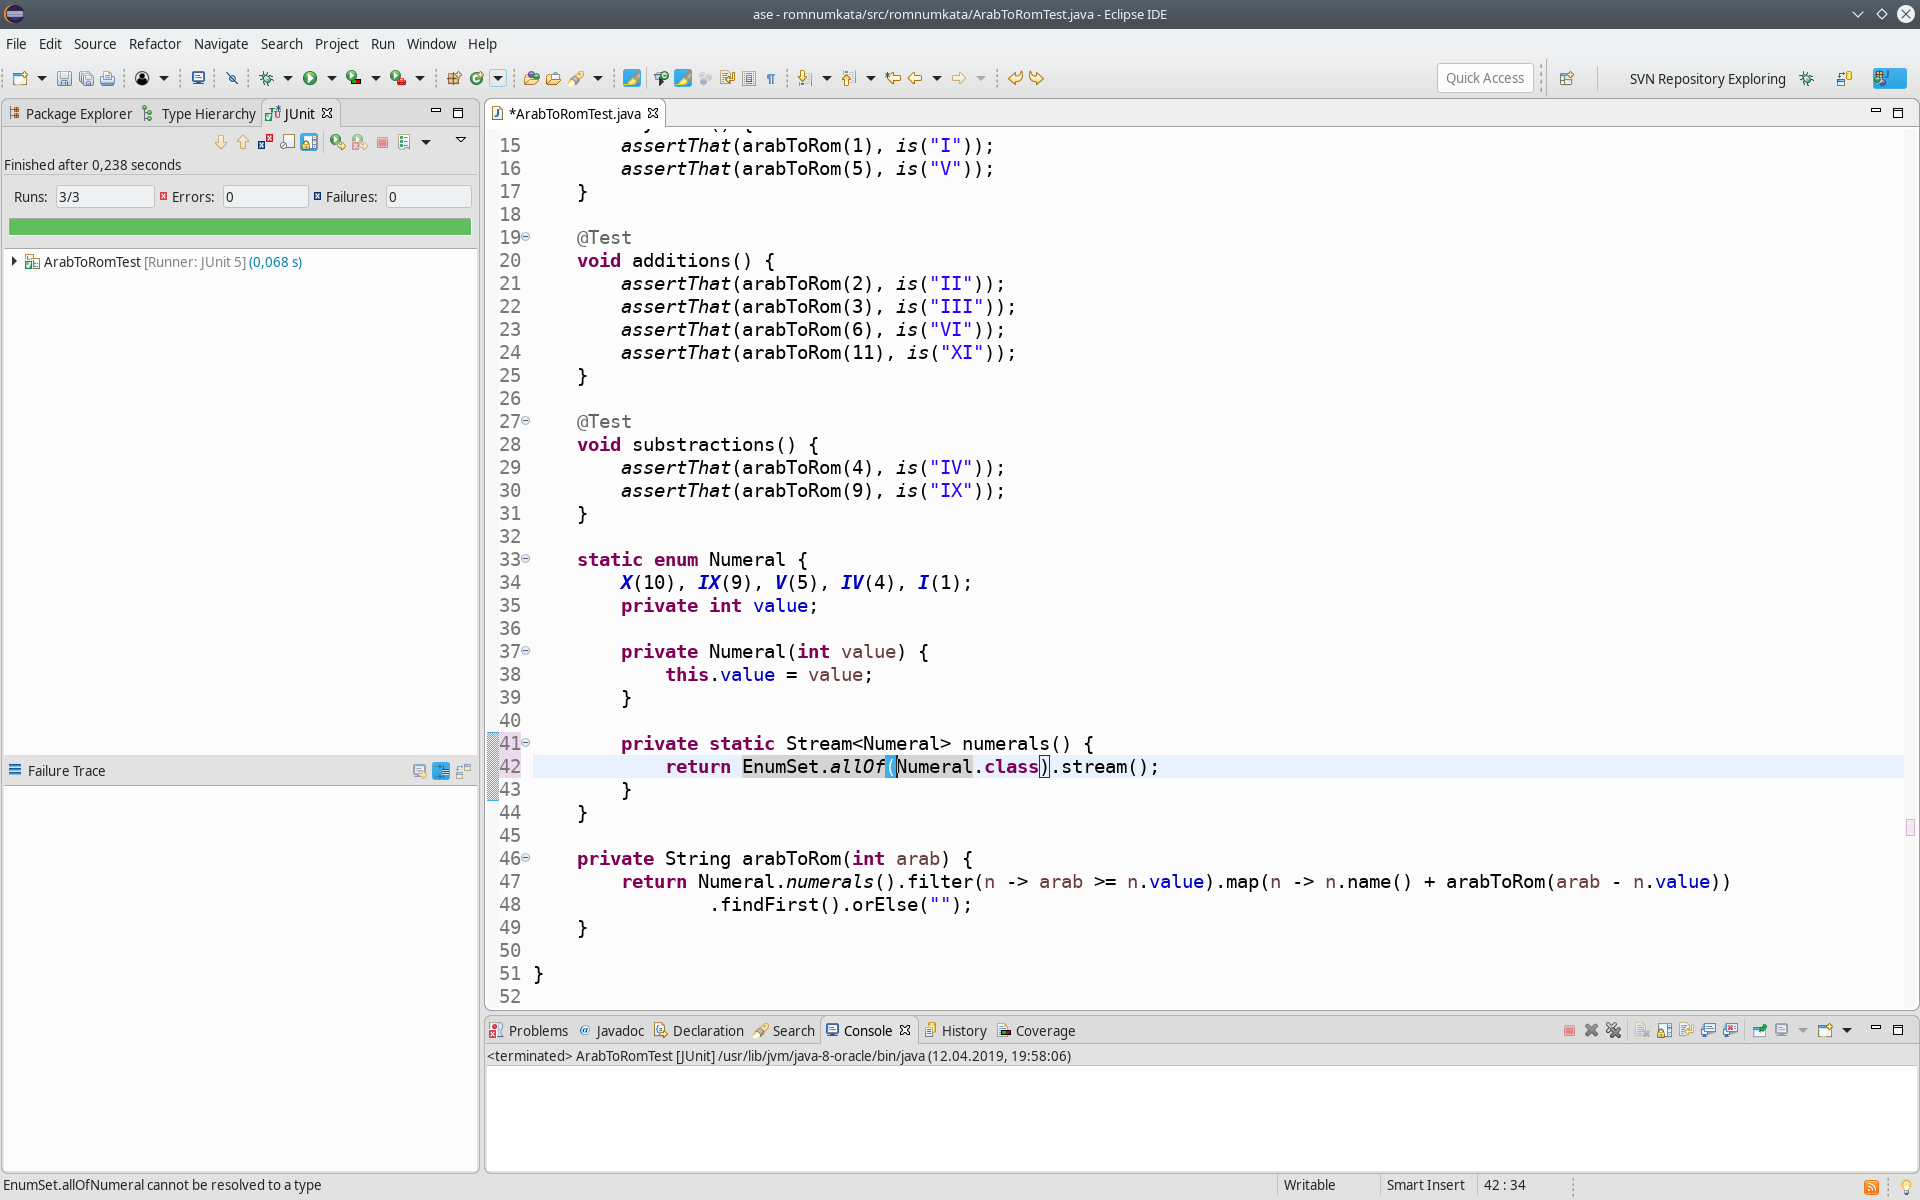
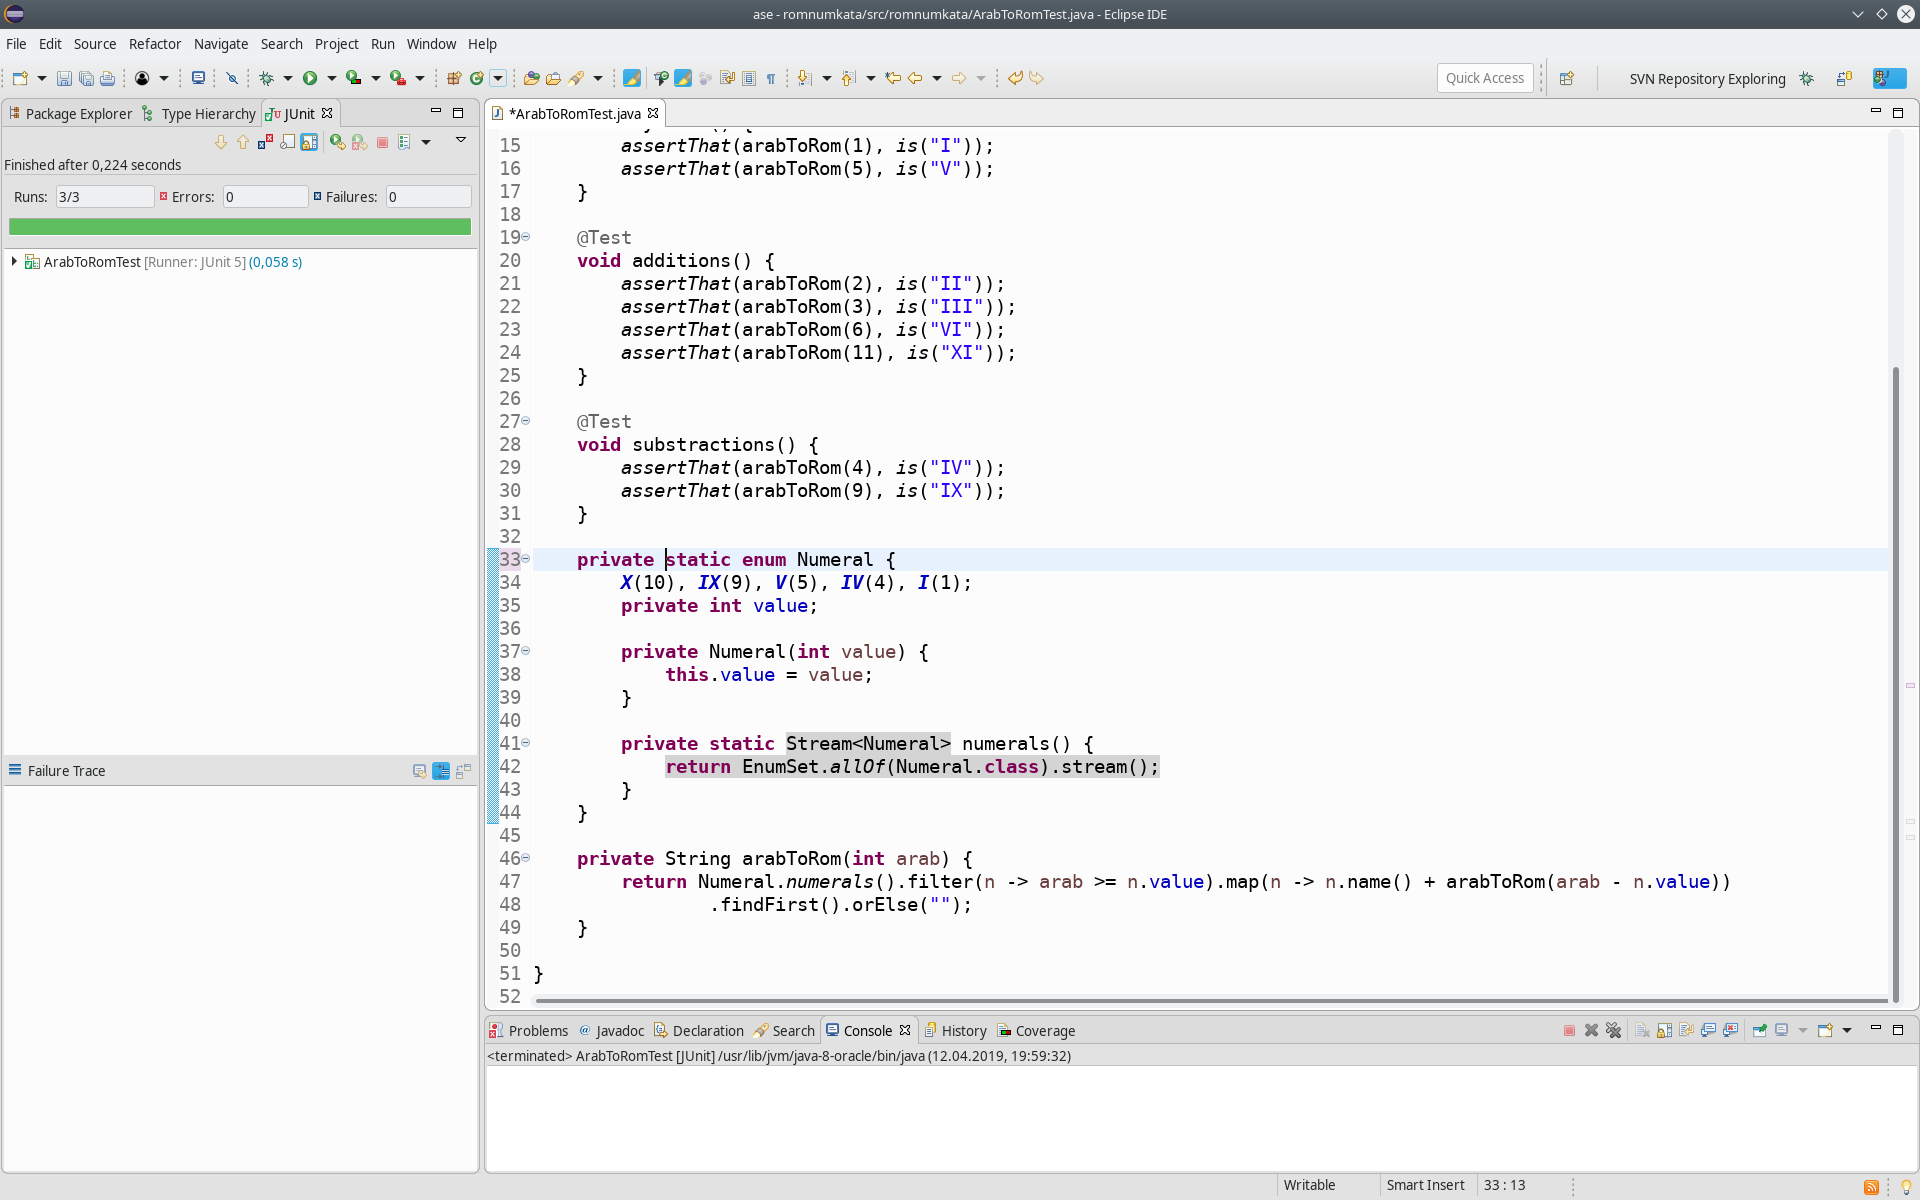
autocommit on change

diff --git a/src/romnumkata/ArabToRomTest.java b/src/romnumkata/ArabToRomTest.java
@@ -30,7 +30,7 @@ public class ArabToRomTest {
 		assertThat(arabToRom(9), is("IX"));
 	}
 
-	static enum Numeral {
+	private static enum Numeral {
 		X(10), IX(9), V(5), IV(4), I(1);
 		private int value;
 
